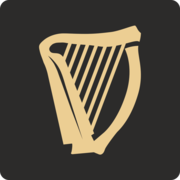
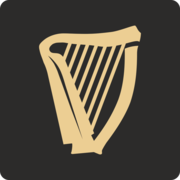
Add theme #7

Changed region(s): [[0.4167, 0.25, 0.8056, 0.8611]]

diff --git a/src/themes.js b/src/themes.js
@@ -2,7 +2,7 @@ export default [
   {
     accent: '#ecce93',
     checkMark: '#ecce93',
-    logo: '#a39475',
+    logo: '#af986a',
     background: '#2c2b2a',
     backgroundTitle: 'rgba(236, 206, 147, 0.1)',
     navbar: '#2c2b2a',
@@ -94,5 +94,21 @@ export default [
     backdrop: '21, 35, 45',
     border: '#004d41',
     active: '#cc7e00',
+  },
+  {
+    accent: '#d8d4f2',
+    checkMark: '#d8d4f2',
+    logo: '#c4b2bc',
+    background: '#a29587',
+    backgroundTitle: 'rgba(216, 212, 242, 0.2)',
+    navbar: '#332e3c',
+    options: '#332e3c',
+    iconsNavbar: '#c4b2bc',
+    text: '#fff',
+    textList: '#e2defc',
+    textInput: '#fff',
+    backdrop: '162, 149, 135',
+    border: '#90806f',
+    active: '#f2ead4',
   },
 ]
